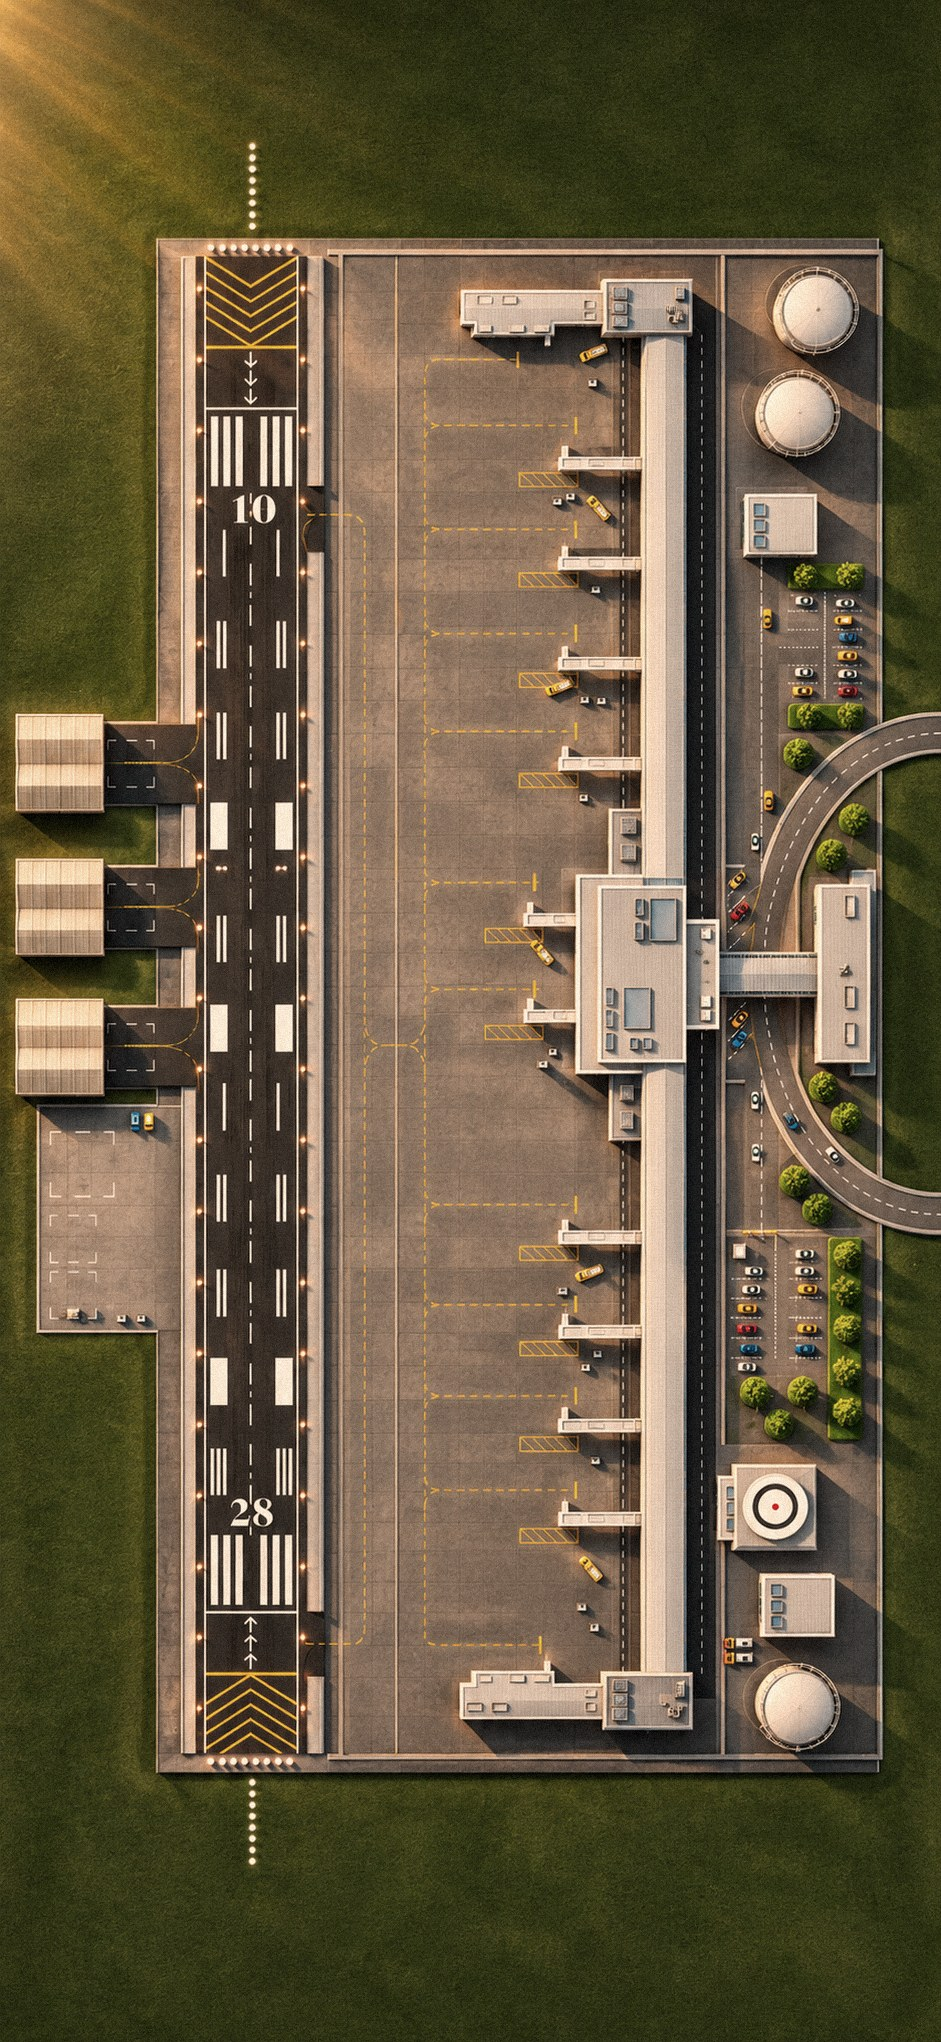
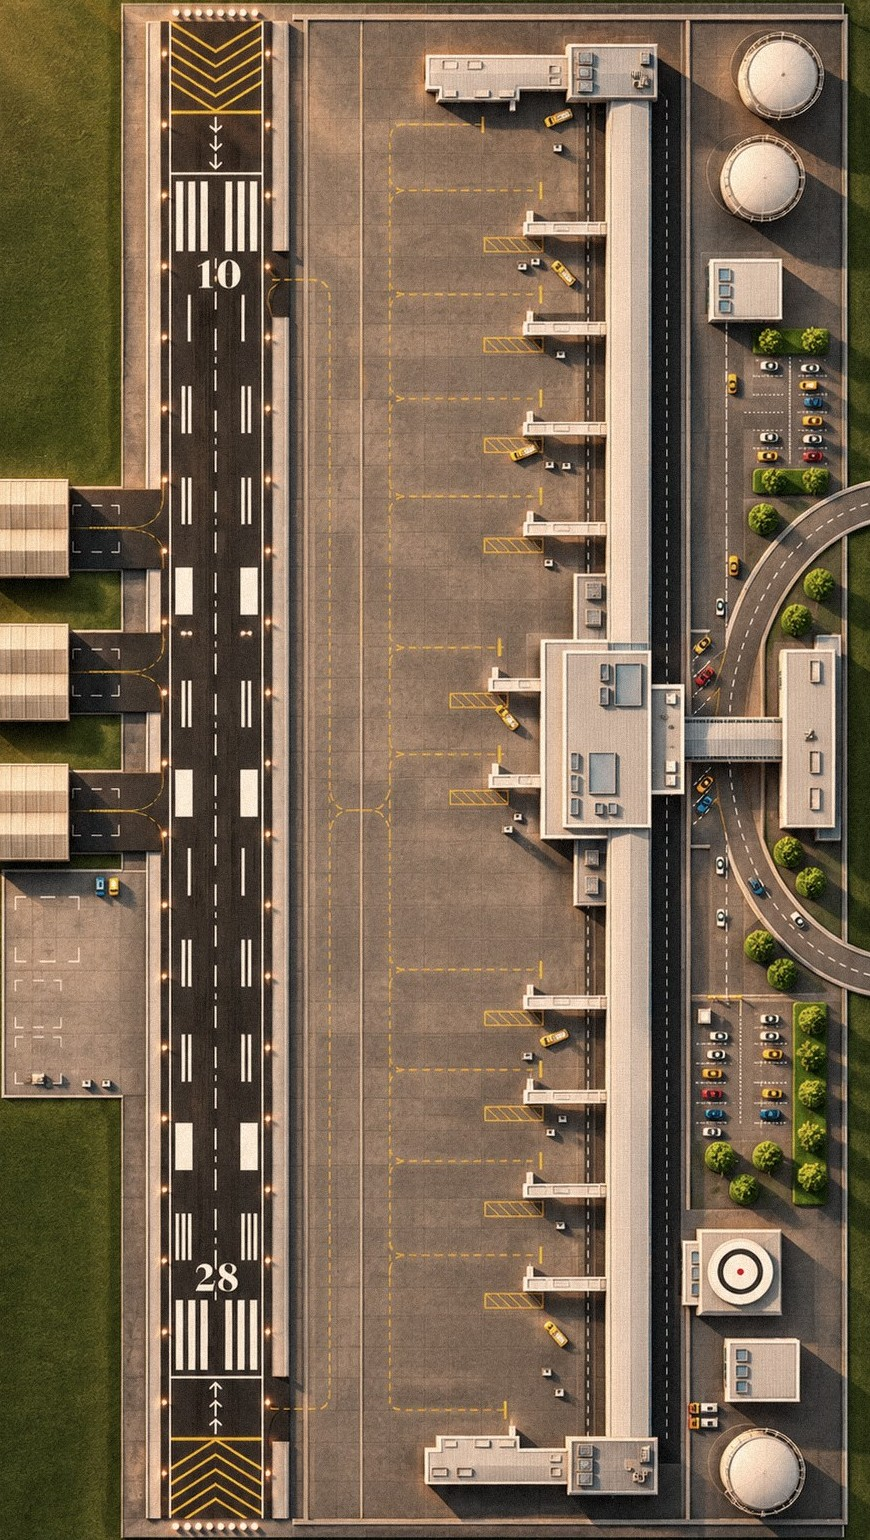
Galeão ampliado: pista do relógio até os botões
Claude-Session: https://claude.ai/code/session_01Y22HSWpi8bJjkUpXL6Y8uJ

diff --git a/lite.html b/lite.html
@@ -31,7 +31,7 @@ button:focus-visible{outline:2px solid var(--y);outline-offset:2px}
 .zreset{position:absolute;left:10px;top:10px;z-index:12;display:flex;align-items:center;gap:6px;background:var(--k);border:1px solid var(--y);color:var(--y);font-weight:800;font-size:12px;border-radius:18px;padding:6px 12px;min-height:36px}
 .zreset[hidden]{display:none}
 .zhint{position:absolute;left:50%;top:45%;transform:translate(-50%,-50%);font-weight:700;z-index:12;background:rgba(0,0,0,.7);color:var(--g);font-size:11px;border-radius:12px;padding:4px 10px;pointer-events:none;transition:opacity .6s}
-.map{position:absolute;left:0;top:0;transform-origin:0 0;background:url(lite_map.jpg?v=20261124e) center/100% 100% no-repeat;overflow:hidden;will-change:transform}
+.map{position:absolute;left:0;top:0;transform-origin:0 0;background:url(lite_map.jpg?v=20261124f) center/100% 100% no-repeat;overflow:hidden;will-change:transform}
 
 /* aviões */
 .pl{position:absolute;transform:translate(-50%,-50%);pointer-events:none;will-change:left,top}
@@ -184,23 +184,23 @@ body.rot .map{background:none}
 body.rot .sky{display:none}
 body.rot .sign,body.rot .rwy{transform:translate(-50%,-50%) rotate(90deg)}
 body.land .mobileBar{top:50%;transform:translateY(-50%)}
-#bgH{position:absolute;left:0;top:0;transform-origin:0 0;background:url(lite_maph.jpg?v=20261124e) center/100% 100% no-repeat;display:none;pointer-events:none}
+#bgH{position:absolute;left:0;top:0;transform-origin:0 0;background:url(lite_maph.jpg?v=20261124f) center/100% 100% no-repeat;display:none;pointer-events:none}
 #bgH i{position:absolute;top:0;right:0;bottom:0;left:0;opacity:0;background:center/100% 100% no-repeat}
-#skyTh{background-image:url(lite_maph.jpg?v=20261124e)!important}#skyNh{background-image:url(lite_maph_noite.jpg?v=20261124e)!important}
+#skyTh{background-image:url(lite_maph.jpg?v=20261124f)!important}#skyNh{background-image:url(lite_maph_noite.jpg?v=20261124f)!important}
 body.rot #bgH{display:block}
-body.l2 #bgH{background-image:url(maph2_dia.jpg?v=20261124e)}body.l2 #skyTh{background-image:url(maph2_tarde.jpg?v=20261124e)!important}body.l2 #skyNh{background-image:url(maph2_noite.jpg?v=20261124e)!important}
-body.l3 #bgH{background-image:url(maph3_dia.jpg?v=20261124e)}body.l3 #skyTh{background-image:url(maph3_tarde.jpg?v=20261124e)!important}body.l3 #skyNh{background-image:url(maph3_noite.jpg?v=20261124e)!important}
-body.rot.l2 .stage::before{background-image:url(maph2_dia.jpg?v=20261124e)}body.rot.l3 .stage::before{background-image:url(maph3_dia.jpg?v=20261124e)}
+body.l2 #bgH{background-image:url(maph2_dia.jpg?v=20261124f)}body.l2 #skyTh{background-image:url(maph2_tarde.jpg?v=20261124f)!important}body.l2 #skyNh{background-image:url(maph2_noite.jpg?v=20261124f)!important}
+body.l3 #bgH{background-image:url(maph3_dia.jpg?v=20261124f)}body.l3 #skyTh{background-image:url(maph3_tarde.jpg?v=20261124f)!important}body.l3 #skyNh{background-image:url(maph3_noite.jpg?v=20261124f)!important}
+body.rot.l2 .stage::before{background-image:url(maph2_dia.jpg?v=20261124f)}body.rot.l3 .stage::before{background-image:url(maph3_dia.jpg?v=20261124f)}
 body.land .rail{top:84px}
 
 @media(max-height:520px){body.land .mobileBar{gap:4px}body.land .mobileBar .tab,body.land .mobileBar .mb{width:40px;height:40px;border-radius:9px}body.land .mobileBar .tab .ico,body.land .mobileBar .mb .ico{width:24px;height:24px}body.land .mobileBar .mb.clockb .clock{font-size:11px}body.land .mobileBar .mb.clockb small{display:none}body.land .rail{top:70px}}
 
 .sky{position:absolute;top:0;right:0;bottom:0;left:0;background:center/100% 100% no-repeat;opacity:0;pointer-events:none}
-#skyT{background-image:url(lite_map.jpg?v=20261124e)}#skyN{background-image:url(lite_map_noite.jpg?v=20261124e)}
-body.l2 .map{background-image:url(lite_map2.jpg?v=20261124e)}body.l2 #skyT{background-image:url(lite_map2.jpg?v=20261124e)}body.l2 #skyN{background-image:url(lite_map2_noite.jpg?v=20261124e)}
-body.l2 .stage::before{background-image:url(lite_map2.jpg?v=20261124e)}
-body.l3 .map{background-image:url(lite_map3.jpg?v=20261124e)}body.l3 #skyT{background-image:url(lite_map3.jpg?v=20261124e)}body.l3 #skyN{background-image:url(lite_map3_noite.jpg?v=20261124e)}
-body.l3 .stage::before{background-image:url(lite_map3.jpg?v=20261124e)}body.l3 #glow{display:none}
+#skyT{background-image:url(lite_map.jpg?v=20261124f)}#skyN{background-image:url(lite_map_noite.jpg?v=20261124f)}
+body.l2 .map{background-image:url(lite_map2.jpg?v=20261124f)}body.l2 #skyT{background-image:url(lite_map2.jpg?v=20261124f)}body.l2 #skyN{background-image:url(lite_map2_noite.jpg?v=20261124f)}
+body.l2 .stage::before{background-image:url(lite_map2.jpg?v=20261124f)}
+body.l3 .map{background-image:url(lite_map3.jpg?v=20261124f)}body.l3 #skyT{background-image:url(lite_map3.jpg?v=20261124f)}body.l3 #skyN{background-image:url(lite_map3_noite.jpg?v=20261124f)}
+body.l3 .stage::before{background-image:url(lite_map3.jpg?v=20261124f)}body.l3 #glow{display:none}
 .dl.apt .dl-r{font-size:13px;color:#bbb}.dl-go{margin-top:8px}
 #glow{position:absolute;top:0;right:0;bottom:0;left:0;background:url(glow1.png) center/100% 100% no-repeat;opacity:var(--nt,.2);pointer-events:none;mix-blend-mode:screen;z-index:1}
 body.l2 #glow{background-image:url(glow2.png)}#glow{display:none!important}body.rot #glow{display:none}
@@ -523,8 +523,8 @@ body.neo .aq-t:empty{background:#1d1e21;box-shadow:inset 3px 3px 6px rgba(0,0,0,
   .toast{position:fixed;top:auto;bottom:18px;max-width:calc(100% - 150px);left:calc(50% - 30px)}
 }
 @media(prefers-reduced-motion:reduce){.sign.ok .plate{animation:none!important}}
-.stage::before{content:"";position:absolute;top:-40px;right:-40px;bottom:-40px;left:-40px;background:url(lite_map.jpg?v=20261124e) center/cover no-repeat;filter:blur(22px) brightness(.75)}
-body.rot .stage::before{background-image:url(lite_maph.jpg?v=20261124e)}
+.stage::before{content:"";position:absolute;top:-40px;right:-40px;bottom:-40px;left:-40px;background:url(lite_map.jpg?v=20261124f) center/cover no-repeat;filter:blur(22px) brightness(.75)}
+body.rot .stage::before{background-image:url(lite_maph.jpg?v=20261124f)}
 /* capa: compatível com Safari antigo (sem gap em flex, altura explícita) */
 .cover{height:100vh;height:100dvh;grid-template-rows:auto minmax(0,1fr) auto}
 .signs>*+*{margin-top:8px}.sgn>*+*{margin-left:12px}.cv-act>*+*{margin-top:8px}
@@ -889,7 +889,7 @@ if(!window.PointerEvent){(function(){
 })()}
 </script>
 <script>
-var APPV='1795557741';
+var APPV='1795558043';
 (function(){function chk(){try{fetch('version.txt?t='+Date.now(),{cache:'no-store'}).then(function(r){return r.ok?r.text():''}).then(function(v){v=(v||'').trim();if(v&&v!==APPV){var k='departure_reload_'+v;if(!sessionStorage.getItem(k)){sessionStorage.setItem(k,'1');location.replace(location.pathname+'?v='+v)}}}).catch(function(){})}catch(e){}}
 chk();document.addEventListener('visibilitychange',function(){if(!document.hidden)chk()});})();
 </script>
@@ -1009,9 +1009,9 @@ var TH={"10":60,"28":1590};
 // layouts: 1 = Galeão original (1 pista), 2 = expansão (2 pistas, Terminal 1 e 2)
 var CN2=[224,584,1197,1595,1920];
 var LAYS={
- 1:{id:1,W:941,H:2042,ps:1.25,G:[{id:'A',rx:252,twy:365,lane:420,sg:1,conn:[500,1040,1645],entry:null,th:{"10":405,"28":1612},nm:{"10":"10","28":"28"},lt:[208,10,10],reil:[198,306],lbx:150,ap:{"10":[150,175,200,225],"28":[1783,1808,1833,1858,1883]},edge:[206,298]}],
+ 1:{id:1,W:870,H:1540,ps:1.25,cover:1,G:[{id:'A',rx:217,twy:330,lane:385,sg:1,conn:[265,805,1410],entry:null,th:{"10":170,"28":1377},nm:{"10":"10","28":"28"},lt:[173,10,10],reil:[163,271],lbx:115,ap:{"10":[4,14],"28":[1524,1534]},edge:[171,263]}],
    labels:[],
-   mk:()=>[[464,5],[565,5],[665,5],[765,5],[921,6],[1017,6],[1239,5],[1333,5],[1427,5],[1521,5]].map(([y,m],i)=>({n:i+1,x:i===4||i===5?523:558,y,max:m,bd:1,g:'A',sx:670,sy:y}))},
+   mk:()=>[[229,5],[330,5],[430,5],[530,5],[686,6],[782,6],[1004,5],[1098,5],[1192,5],[1286,5]].map(([y,m],i)=>({n:i+1,x:i===4||i===5?488:523,y,max:m,bd:1,g:'A',sx:635,sy:y}))},
  2:{id:2,W:941,H:1672,ps:1.35,G:[
    {id:'A',rx:84,twy:355,lane:397,sg:1,conn:[255,256,1399,1400],entry:null,th:{"10":168,"28":1489},nm:{"10":"10L","28":"28R"},lt:[58,6.5,9],reil:[50,118],lbx:30,ap:{"10":[100,117,134,151],"28":[1505,1520,1535,1550,1565]},edge:[57,111]},
    {id:'B',rx:266,twy:355,lane:397,sg:1,conn:[240,480,838,1248,1500],entry:null,th:{"10":93,"28":1489},nm:{"10":"10R","28":"28L"},lt:[234,8,9],reil:[226,306],lbx:325,ap:{"10":[25,42,59,76],"28":[1505,1520,1535,1550,1565]},edge:[233,299]}],
@@ -1219,7 +1219,7 @@ var DIFFS={
 var DIFF="normal",camp={day:1,stars:0,rep:70,money:0},storms=[],dayOver=false;
 var D=()=>DIFFS[DIFF];
 var START_MONEY={facil:400000,normal:250000,dificil:150000};
-var newCamp=()=>({lay1v:3,day:1,stars:0,rep:70,money:START_MONEY[DIFF]||250000,deals:[],crews:DIFF==='facil'?undefined:{fuel:2,cat:2,clean:2}});
+var newCamp=()=>({lay1v:4,day:1,stars:0,rep:70,money:START_MONEY[DIFF]||250000,deals:[],crews:DIFF==='facil'?undefined:{fuel:2,cat:2,clean:2}});
 var flights,now,speed=10,tab="arr",sel=null,assignFor=null,runwayFree,score,lastWind=-1;
 var $=id=>document.getElementById(id);
 var map=$('map'),fixed=$('fixed'),planesEl=$('planes'),board=$('board'),detail=$('detail'),side=$('side'),cards=$('cards');
@@ -2342,7 +2342,7 @@ function layoutMap(){
   const r=stage.getBoundingClientRect();SW=r.width;SH=r.height;
   const fitW=!ROTM&&SW/SH<W/H*1.15&&matchMedia('(pointer:coarse)').matches;
   const sq=W/H>.8,PANH=fitW?(sq?66:Math.min(110,Math.max(62,SH-44-SW/W*H))):0;
-  const sc=fitW?(sq?Math.max(SW/W,(SH-44-PANH)/H):Math.min(SW/W,(SH-44-PANH)/H)):ROTM?Math.max(SW/H,SH/W):(SW/SH<W/H*1.15?Math.max(SW/W,SH/H):SH/H);
+  const sc=fitW?(sq||LAY.cover?Math.max(SW/W,(SH-44-PANH)/H):Math.min(SW/W,(SH-44-PANH)/H)):ROTM?Math.max(SW/H,SH/W):(SW/SH<W/H*1.15?Math.max(SW/W,SH/H):SH/H);
   const cu=(SW/2-ZX)/(dispW()*zk),cv=(SH/2-ZY)/(dispH()*zk);
   barH=fitW?44:0;document.body.classList.toggle('cbar',fitW);$('cbar').style.height=barH+'px';document.body.style.setProperty('--barh',barH+'px');document.body.style.setProperty('--panh',PANH+'px');PANHV=PANH;lastClk='';requestAnimationFrame(edFit);
   bw=W*sc;bh=H*sc;map.style.width=bw+'px';map.style.height=bh+'px';map.style.setProperty('--mk',(bw/W).toFixed(4));
@@ -2777,7 +2777,7 @@ function loadGame(d){
   ROT=d.ROT;flights=d.flights;now=d.now;buildLines();runwayFree=typeof d.runwayFree==='object'&&d.runwayFree?d.runwayFree:{A:0,B:0};score=d.score;
   setLayout(camp.lay||1);STANDS.forEach((x,i)=>x.res=d.stands[i]==null?null:d.stands[i]);
   if(camp.lay===2&&camp.layv!==2){camp.layv=2;migrateLay();runwayFree={A:0,B:0}}
-  if((camp.lay||1)===1&&camp.lay1v!==3){camp.lay1v=3;migrateLay();runwayFree={A:0,B:0}}
+  if((camp.lay||1)===1&&camp.lay1v!==4){camp.lay1v=4;migrateLay();runwayFree={A:0,B:0}}
   flights.forEach(f=>{if(f.svs)f.svs.forEach(v=>{if(v.q==null)v.q=true})});
   speed=nz(d.speed,10);if(speed)rescalePaths(pathK(speed));document.querySelectorAll('#speed button[data-s]').forEach(x=>x.classList.toggle('on',+x.dataset.s===speed));
   $('spdLbl').textContent=speed?speed+'×':'pausa';

diff --git a/index.html b/index.html
@@ -31,7 +31,7 @@ button:focus-visible{outline:2px solid var(--y);outline-offset:2px}
 .zreset{position:absolute;left:10px;top:10px;z-index:12;display:flex;align-items:center;gap:6px;background:var(--k);border:1px solid var(--y);color:var(--y);font-weight:800;font-size:12px;border-radius:18px;padding:6px 12px;min-height:36px}
 .zreset[hidden]{display:none}
 .zhint{position:absolute;left:50%;top:45%;transform:translate(-50%,-50%);font-weight:700;z-index:12;background:rgba(0,0,0,.7);color:var(--g);font-size:11px;border-radius:12px;padding:4px 10px;pointer-events:none;transition:opacity .6s}
-.map{position:absolute;left:0;top:0;transform-origin:0 0;background:url(map.jpg?v=20261124e) center/100% 100% no-repeat;overflow:hidden;will-change:transform}
+.map{position:absolute;left:0;top:0;transform-origin:0 0;background:url(map.jpg?v=20261124f) center/100% 100% no-repeat;overflow:hidden;will-change:transform}
 
 /* aviões */
 .pl{position:absolute;transform:translate(-50%,-50%);pointer-events:none;will-change:left,top}
@@ -184,23 +184,23 @@ body.rot .map{background:none}
 body.rot .sky{display:none}
 body.rot .sign,body.rot .rwy{transform:translate(-50%,-50%) rotate(90deg)}
 body.land .mobileBar{top:50%;transform:translateY(-50%)}
-#bgH{position:absolute;left:0;top:0;transform-origin:0 0;background:url(maph_dia.jpg?v=20261124e) center/100% 100% no-repeat;display:none;pointer-events:none}
+#bgH{position:absolute;left:0;top:0;transform-origin:0 0;background:url(maph_dia.jpg?v=20261124f) center/100% 100% no-repeat;display:none;pointer-events:none}
 #bgH i{position:absolute;top:0;right:0;bottom:0;left:0;opacity:0;background:center/100% 100% no-repeat}
-#skyTh{background-image:url(maph_tarde.jpg?v=20261124e)!important}#skyNh{background-image:url(maph_noite.jpg?v=20261124e)!important}
+#skyTh{background-image:url(maph_tarde.jpg?v=20261124f)!important}#skyNh{background-image:url(maph_noite.jpg?v=20261124f)!important}
 body.rot #bgH{display:block}
-body.l2 #bgH{background-image:url(maph2_dia.jpg?v=20261124e)}body.l2 #skyTh{background-image:url(maph2_tarde.jpg?v=20261124e)!important}body.l2 #skyNh{background-image:url(maph2_noite.jpg?v=20261124e)!important}
-body.l3 #bgH{background-image:url(maph3_dia.jpg?v=20261124e)}body.l3 #skyTh{background-image:url(maph3_tarde.jpg?v=20261124e)!important}body.l3 #skyNh{background-image:url(maph3_noite.jpg?v=20261124e)!important}
-body.rot.l2 .stage::before{background-image:url(maph2_dia.jpg?v=20261124e)}body.rot.l3 .stage::before{background-image:url(maph3_dia.jpg?v=20261124e)}
+body.l2 #bgH{background-image:url(maph2_dia.jpg?v=20261124f)}body.l2 #skyTh{background-image:url(maph2_tarde.jpg?v=20261124f)!important}body.l2 #skyNh{background-image:url(maph2_noite.jpg?v=20261124f)!important}
+body.l3 #bgH{background-image:url(maph3_dia.jpg?v=20261124f)}body.l3 #skyTh{background-image:url(maph3_tarde.jpg?v=20261124f)!important}body.l3 #skyNh{background-image:url(maph3_noite.jpg?v=20261124f)!important}
+body.rot.l2 .stage::before{background-image:url(maph2_dia.jpg?v=20261124f)}body.rot.l3 .stage::before{background-image:url(maph3_dia.jpg?v=20261124f)}
 body.land .rail{top:84px}
 
 @media(max-height:520px){body.land .mobileBar{gap:4px}body.land .mobileBar .tab,body.land .mobileBar .mb{width:40px;height:40px;border-radius:9px}body.land .mobileBar .tab .ico,body.land .mobileBar .mb .ico{width:24px;height:24px}body.land .mobileBar .mb.clockb .clock{font-size:11px}body.land .mobileBar .mb.clockb small{display:none}body.land .rail{top:70px}}
 
 .sky{position:absolute;top:0;right:0;bottom:0;left:0;background:center/100% 100% no-repeat;opacity:0;pointer-events:none}
-#skyT{background-image:url(map_tarde.jpg?v=20261124e)}#skyN{background-image:url(map_noite.jpg?v=20261124e)}
-body.l2 .map{background-image:url(map2_dia.jpg?v=20261124e)}body.l2 #skyT{background-image:url(map2_tarde.jpg?v=20261124e)}body.l2 #skyN{background-image:url(map2_noite.jpg?v=20261124e)}
-body.l2 .stage::before{background-image:url(map2_dia.jpg?v=20261124e)}
-body.l3 .map{background-image:url(map3_dia.jpg?v=20261124e)}body.l3 #skyT{background-image:url(map3_tarde.jpg?v=20261124e)}body.l3 #skyN{background-image:url(map3_noite.jpg?v=20261124e)}
-body.l3 .stage::before{background-image:url(map3_dia.jpg?v=20261124e)}body.l3 #glow{display:none}
+#skyT{background-image:url(map_tarde.jpg?v=20261124f)}#skyN{background-image:url(map_noite.jpg?v=20261124f)}
+body.l2 .map{background-image:url(map2_dia.jpg?v=20261124f)}body.l2 #skyT{background-image:url(map2_tarde.jpg?v=20261124f)}body.l2 #skyN{background-image:url(map2_noite.jpg?v=20261124f)}
+body.l2 .stage::before{background-image:url(map2_dia.jpg?v=20261124f)}
+body.l3 .map{background-image:url(map3_dia.jpg?v=20261124f)}body.l3 #skyT{background-image:url(map3_tarde.jpg?v=20261124f)}body.l3 #skyN{background-image:url(map3_noite.jpg?v=20261124f)}
+body.l3 .stage::before{background-image:url(map3_dia.jpg?v=20261124f)}body.l3 #glow{display:none}
 .dl.apt .dl-r{font-size:13px;color:#bbb}.dl-go{margin-top:8px}
 #glow{position:absolute;top:0;right:0;bottom:0;left:0;background:url(glow1.png) center/100% 100% no-repeat;opacity:var(--nt,.2);pointer-events:none;mix-blend-mode:screen;z-index:1}
 body.l2 #glow{background-image:url(glow2.png)}#glow{display:none!important}body.rot #glow{display:none}
@@ -523,8 +523,8 @@ body.neo .aq-t:empty{background:#1d1e21;box-shadow:inset 3px 3px 6px rgba(0,0,0,
   .toast{position:fixed;top:auto;bottom:18px;max-width:calc(100% - 150px);left:calc(50% - 30px)}
 }
 @media(prefers-reduced-motion:reduce){.sign.ok .plate{animation:none!important}}
-.stage::before{content:"";position:absolute;top:-40px;right:-40px;bottom:-40px;left:-40px;background:url(map.jpg?v=20261124e) center/cover no-repeat;filter:blur(22px) brightness(.75)}
-body.rot .stage::before{background-image:url(maph_dia.jpg?v=20261124e)}
+.stage::before{content:"";position:absolute;top:-40px;right:-40px;bottom:-40px;left:-40px;background:url(map.jpg?v=20261124f) center/cover no-repeat;filter:blur(22px) brightness(.75)}
+body.rot .stage::before{background-image:url(maph_dia.jpg?v=20261124f)}
 /* capa: compatível com Safari antigo (sem gap em flex, altura explícita) */
 .cover{height:100vh;height:100dvh;grid-template-rows:auto minmax(0,1fr) auto}
 .signs>*+*{margin-top:8px}.sgn>*+*{margin-left:12px}.cv-act>*+*{margin-top:8px}
@@ -880,7 +880,7 @@ if(!window.PointerEvent){(function(){
 })()}
 </script>
 <script>
-var APPV='1795557741';
+var APPV='1795558043';
 (function(){function chk(){try{fetch('version.txt?t='+Date.now(),{cache:'no-store'}).then(function(r){return r.ok?r.text():''}).then(function(v){v=(v||'').trim();if(v&&v!==APPV){var k='departure_reload_'+v;if(!sessionStorage.getItem(k)){sessionStorage.setItem(k,'1');location.replace(location.pathname+'?v='+v)}}}).catch(function(){})}catch(e){}}
 chk();document.addEventListener('visibilitychange',function(){if(!document.hidden)chk()});})();
 </script>
@@ -999,9 +999,9 @@ var TH={"10":60,"28":1590};
 // layouts: 1 = Galeão original (1 pista), 2 = expansão (2 pistas, Terminal 1 e 2)
 var CN2=[224,584,1197,1595,1920];
 var LAYS={
- 1:{id:1,W:941,H:2042,ps:1.25,G:[{id:'A',rx:252,twy:365,lane:420,sg:1,conn:[500,1040,1645],entry:null,th:{"10":405,"28":1612},nm:{"10":"10","28":"28"},lt:[208,10,10],reil:[198,306],lbx:150,ap:{"10":[150,175,200,225],"28":[1783,1808,1833,1858,1883]},edge:[206,298]}],
+ 1:{id:1,W:870,H:1540,ps:1.25,cover:1,G:[{id:'A',rx:217,twy:330,lane:385,sg:1,conn:[265,805,1410],entry:null,th:{"10":170,"28":1377},nm:{"10":"10","28":"28"},lt:[173,10,10],reil:[163,271],lbx:115,ap:{"10":[4,14],"28":[1524,1534]},edge:[171,263]}],
    labels:[],
-   mk:()=>[[464,5],[565,5],[665,5],[765,5],[921,6],[1017,6],[1239,5],[1333,5],[1427,5],[1521,5]].map(([y,m],i)=>({n:i+1,x:i===4||i===5?523:558,y,max:m,bd:1,g:'A',sx:670,sy:y}))},
+   mk:()=>[[229,5],[330,5],[430,5],[530,5],[686,6],[782,6],[1004,5],[1098,5],[1192,5],[1286,5]].map(([y,m],i)=>({n:i+1,x:i===4||i===5?488:523,y,max:m,bd:1,g:'A',sx:635,sy:y}))},
  2:{id:2,W:941,H:1672,ps:1.35,G:[
    {id:'A',rx:84,twy:355,lane:397,sg:1,conn:[255,256,1399,1400],entry:null,th:{"10":168,"28":1489},nm:{"10":"10L","28":"28R"},lt:[58,6.5,9],reil:[50,118],lbx:30,ap:{"10":[100,117,134,151],"28":[1505,1520,1535,1550,1565]},edge:[57,111]},
    {id:'B',rx:266,twy:355,lane:397,sg:1,conn:[240,480,838,1248,1500],entry:null,th:{"10":93,"28":1489},nm:{"10":"10R","28":"28L"},lt:[234,8,9],reil:[226,306],lbx:325,ap:{"10":[25,42,59,76],"28":[1505,1520,1535,1550,1565]},edge:[233,299]}],
@@ -1209,7 +1209,7 @@ var DIFFS={
 var DIFF="normal",camp={day:1,stars:0,rep:70,money:0},storms=[],dayOver=false;
 var D=()=>DIFFS[DIFF];
 var START_MONEY={facil:400000,normal:250000,dificil:150000};
-var newCamp=()=>({lay1v:3,day:1,stars:0,rep:70,money:START_MONEY[DIFF]||250000,deals:[],crews:DIFF==='facil'?undefined:{fuel:2,cat:2,clean:2}});
+var newCamp=()=>({lay1v:4,day:1,stars:0,rep:70,money:START_MONEY[DIFF]||250000,deals:[],crews:DIFF==='facil'?undefined:{fuel:2,cat:2,clean:2}});
 var flights,now,speed=10,tab="arr",sel=null,assignFor=null,runwayFree,score,lastWind=-1;
 var $=id=>document.getElementById(id);
 var map=$('map'),fixed=$('fixed'),planesEl=$('planes'),board=$('board'),detail=$('detail'),side=$('side'),cards=$('cards');
@@ -2332,7 +2332,7 @@ function layoutMap(){
   const r=stage.getBoundingClientRect();SW=r.width;SH=r.height;
   const fitW=!ROTM&&SW/SH<W/H*1.15&&matchMedia('(pointer:coarse)').matches;
   const sq=W/H>.8,PANH=fitW?(sq?66:Math.min(110,Math.max(62,SH-44-SW/W*H))):0;
-  const sc=fitW?(sq?Math.max(SW/W,(SH-44-PANH)/H):Math.min(SW/W,(SH-44-PANH)/H)):ROTM?Math.max(SW/H,SH/W):(SW/SH<W/H*1.15?Math.max(SW/W,SH/H):SH/H);
+  const sc=fitW?(sq||LAY.cover?Math.max(SW/W,(SH-44-PANH)/H):Math.min(SW/W,(SH-44-PANH)/H)):ROTM?Math.max(SW/H,SH/W):(SW/SH<W/H*1.15?Math.max(SW/W,SH/H):SH/H);
   const cu=(SW/2-ZX)/(dispW()*zk),cv=(SH/2-ZY)/(dispH()*zk);
   barH=fitW?44:0;document.body.classList.toggle('cbar',fitW);$('cbar').style.height=barH+'px';document.body.style.setProperty('--barh',barH+'px');document.body.style.setProperty('--panh',PANH+'px');PANHV=PANH;lastClk='';requestAnimationFrame(edFit);
   bw=W*sc;bh=H*sc;map.style.width=bw+'px';map.style.height=bh+'px';map.style.setProperty('--mk',(bw/W).toFixed(4));
@@ -2767,7 +2767,7 @@ function loadGame(d){
   ROT=d.ROT;flights=d.flights;now=d.now;buildLines();runwayFree=typeof d.runwayFree==='object'&&d.runwayFree?d.runwayFree:{A:0,B:0};score=d.score;
   setLayout(camp.lay||1);STANDS.forEach((x,i)=>x.res=d.stands[i]==null?null:d.stands[i]);
   if(camp.lay===2&&camp.layv!==2){camp.layv=2;migrateLay();runwayFree={A:0,B:0}}
-  if((camp.lay||1)===1&&camp.lay1v!==3){camp.lay1v=3;migrateLay();runwayFree={A:0,B:0}}
+  if((camp.lay||1)===1&&camp.lay1v!==4){camp.lay1v=4;migrateLay();runwayFree={A:0,B:0}}
   flights.forEach(f=>{if(f.svs)f.svs.forEach(v=>{if(v.q==null)v.q=true})});
   speed=nz(d.speed,10);if(speed)rescalePaths(pathK(speed));document.querySelectorAll('#speed button[data-s]').forEach(x=>x.classList.toggle('on',+x.dataset.s===speed));
   $('spdLbl').textContent=speed?speed+'×':'pausa';
